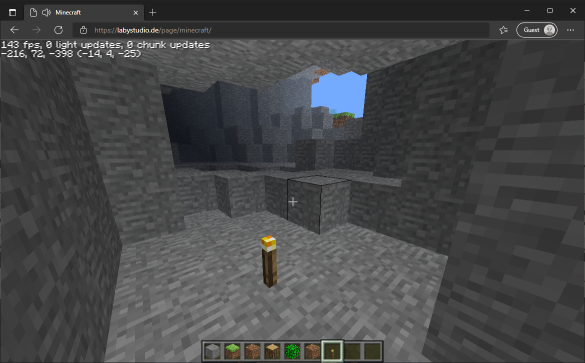
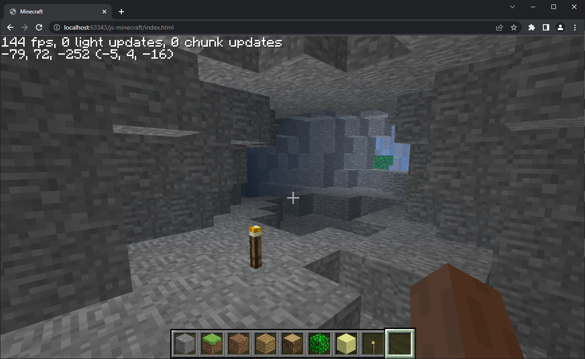
implement first person item in hand rendering
(cherry picked from commit 647b7dc98e1fa80c5ba72a560b03cf447fc65bd4)

diff --git a/src/js/net/minecraft/client/render/WorldRenderer.js b/src/js/net/minecraft/client/render/WorldRenderer.js
@@ -347,11 +347,15 @@ export default class WorldRenderer {
     renderHand(partialTicks) {
         // Hide hand before rendering
         let player = this.minecraft.player;
-        let stack = player.renderer.handGroup;
+        let stack = player.renderer.firstPersonGroup;
         stack.visible = false;
 
+        let firstPerson = this.minecraft.settings.thirdPersonView === 0;
+        let itemId = firstPerson ? this.itemToRender : player.inventory.getItemInSelectedSlot();
+        let hasItem = itemId !== 0;
+
         // Hide in third person
-        if (this.minecraft.settings.thirdPersonView !== 0) {
+        if (!firstPerson) {
             return;
         }
 
@@ -369,14 +373,6 @@ export default class WorldRenderer {
         let pitchArm = player.prevRenderArmPitch + (player.renderArmPitch - player.prevRenderArmPitch) * partialTicks;
         let yawArm = player.prevRenderArmYaw + (player.renderArmYaw - player.prevRenderArmYaw) * partialTicks;
 
-        let factor = 0.8;
-        let zOffset = Math.sin(swingProgress * Math.PI);
-        let yOffset = Math.sin(Math.sqrt(swingProgress) * Math.PI * 2.0);
-        let xOffset = Math.sin(Math.sqrt(swingProgress) * Math.PI);
-
-        let yRotation = Math.sin(Math.sqrt(swingProgress) * Math.PI);
-        let zRotation = Math.sin(swingProgress * swingProgress * Math.PI);
-
         // Bobbing animation
         if (this.minecraft.settings.viewBobbing) {
             let walked = -(player.prevDistanceWalked + (player.distanceWalked - player.prevDistanceWalked) * partialTicks);
@@ -393,31 +389,55 @@ export default class WorldRenderer {
             stack.rotateX(MathHelper.toRadians(pitch));
         }
 
+        let factor = 0.8;
+        let zOffset = Math.sin(swingProgress * Math.PI);
+        let yOffset = Math.sin(Math.sqrt(swingProgress) * Math.PI * 2.0);
+        let xOffset = Math.sin(Math.sqrt(swingProgress) * Math.PI);
+
+        let sqrtRotation = Math.sin(Math.sqrt(swingProgress) * Math.PI);
+        let powRotation = Math.sin(swingProgress * swingProgress * Math.PI);
+
         // Camera rotation movement
         stack.rotateX(MathHelper.toRadians((player.rotationPitch - pitchArm) * 0.1));
         stack.rotateY(MathHelper.toRadians((player.rotationYaw - yawArm) * 0.1));
 
-        // Initial offset on screen
-        this.translate(stack, -xOffset * 0.3, yOffset * 0.4, -zOffset * 0.4);
-        this.translate(stack, 0.8 * factor, -0.75 * factor - (1.0 - equipProgress) * 0.6, -0.9 * factor);
+        if(hasItem) {
+            // Initial offset on screen
+            this.translate(stack, -xOffset * 0.4, yOffset * 0.2, -zOffset * 0.2);
+            this.translate(stack, 0.7 * factor, -0.65 * factor - (1.0 - equipProgress) * 0.6, -0.9 * factor);
 
-        // Rotation of hand
-        stack.rotateY(MathHelper.toRadians(45));
-        stack.rotateY(MathHelper.toRadians(yRotation * 70));
-        stack.rotateZ(MathHelper.toRadians(-zRotation * 20));
+            // Rotation of hand
+            stack.rotateY(MathHelper.toRadians(45));
+            stack.rotateY(MathHelper.toRadians(-powRotation * 20));
+            stack.rotateZ(MathHelper.toRadians(-sqrtRotation * 20));
+            stack.rotateX(MathHelper.toRadians(-sqrtRotation * 80));
 
-        // Post transform
-        this.translate(stack, -1, 3.6, 3.5);
-        stack.rotateZ(MathHelper.toRadians(120));
-        stack.rotateX(MathHelper.toRadians(200));
-        stack.rotateY(MathHelper.toRadians(-135));
-        this.translate(stack, 5.6, 0.0, 0.0);
+            // Scale down
+            stack.scale.x *= 0.4;
+            stack.scale.y *= 0.4;
+            stack.scale.z *= 0.4;
 
-        if (this.itemToRender === 0) {
-            // Render hand
-            player.renderer.renderRightArm(player, partialTicks);
-        } else {
             // Render item
+            player.renderer.updateFirstPerson(player);
+        } else {
+            // Initial offset on screen
+            this.translate(stack, -xOffset * 0.3, yOffset * 0.4, -zOffset * 0.4);
+            this.translate(stack, 0.8 * factor, -0.75 * factor - (1.0 - equipProgress) * 0.6, -0.9 * factor);
+
+            // Rotation of hand
+            stack.rotateY(MathHelper.toRadians(45));
+            stack.rotateY(MathHelper.toRadians(sqrtRotation * 70));
+            stack.rotateZ(MathHelper.toRadians(-powRotation * 20));
+
+            // Post transform
+            this.translate(stack, -1, 3.6, 3.5);
+            stack.rotateZ(MathHelper.toRadians(120));
+            stack.rotateX(MathHelper.toRadians(200));
+            stack.rotateY(MathHelper.toRadians(-135));
+            this.translate(stack, 5.6, 0.0, 0.0);
+
+            // Render hand
+            player.renderer.renderRightHand(player, partialTicks);
         }
     }
 

diff --git a/src/js/net/minecraft/client/render/entity/entity/PlayerRenderer.js b/src/js/net/minecraft/client/render/entity/entity/PlayerRenderer.js
@@ -16,33 +16,52 @@ export default class PlayerRenderer extends EntityRenderer {
 
         // First person right-hand holder
         this.handModel = null;
-        this.handGroup = new THREE.Object3D();
-        this.worldRenderer.overlay.add(this.handGroup);
+        this.firstPersonGroup = new THREE.Object3D();
+        this.worldRenderer.overlay.add(this.firstPersonGroup);
     }
 
     rebuild(entity) {
-        this.tessellator.bindTexture(this.textureCharacter);
-        super.rebuild(entity);
+        let firstPerson = this.worldRenderer.minecraft.settings.thirdPersonView === 0;
+        let itemId = firstPerson ? this.worldRenderer.itemToRender : entity.inventory.getItemInSelectedSlot();
+        let hasItem = itemId !== 0;
 
-        // Render item in hand
-        let group = this.model.rightArm.bone;
-        let id = entity.inventory.getItemInSelectedSlot();
-        if (id !== 0 && this.worldRenderer.minecraft.settings.thirdPersonView !== 0) {
-            let block = Block.getById(id);
-            this.worldRenderer.blockRenderer.renderBlockInHandThirdPerson(group, block, entity.getEntityBrightness());
+        if (firstPerson && hasItem) {
+            super.rebuild(entity);
+
+            // Create new item group and add it to the hand
+            this.firstPersonGroup.clear();
+            let itemGroup = new THREE.Object3D();
+            this.firstPersonGroup.add(itemGroup);
+
+            // Render item in hand in first person
+            let block = Block.getById(itemId);
+            this.worldRenderer.blockRenderer.renderBlockInFirstPerson(itemGroup, block, entity.getEntityBrightness());
+
+            // Copy material and update depth test of the item to render it always in front
+            let mesh = itemGroup.children[0];
+            mesh.material = mesh.material.clone();
+            mesh.material.depthTest = false;
+        } else {
+            this.tessellator.bindTexture(this.textureCharacter);
+            super.rebuild(entity);
+
+            // Render item in hand in third person
+            if (hasItem) {
+                let block = Block.getById(itemId);
+                let group = this.model.rightArm.bone;
+                this.worldRenderer.blockRenderer.renderBlockInHandThirdPerson(group, block, entity.getEntityBrightness());
+            }
+
+            // Create first person right hand and attach it to the holder
+            this.firstPersonGroup.clear();
+            this.handModel = this.model.rightArm.clone();
+            this.firstPersonGroup.add(this.handModel.bone);
+
+            // Copy material and update depth test of the hand to render it always in front
+            let mesh = this.handModel.bone.children[0];
+            mesh.material = mesh.material.clone();
+            mesh.material.depthTest = false;
         }
-
-        // Create first person right hand and attach it to the holder
-        this.handGroup.clear();
-        this.handModel = this.model.rightArm.clone();
-        this.handGroup.add(this.handModel.bone);
-
-        // Copy material and update depth test of the hand
-        let mesh = this.handModel.bone.children[0];
-        mesh.renerOrder = 999;
-        mesh.material = mesh.material.clone();
-        mesh.material.depthTest = false;
-        mesh.material.depthWrite = false;
     }
 
     render(entity, partialTicks) {
@@ -57,9 +76,16 @@ export default class PlayerRenderer extends EntityRenderer {
         super.render(entity, partialTicks);
     }
 
-    renderRightArm(player, partialTicks) {
+    updateFirstPerson(player) {
         // Make sure the model is created
         this.prepareModel(player);
+
+        // Make the group visible
+        this.firstPersonGroup.visible = true;
+    }
+
+    renderRightHand(player, partialTicks) {
+        this.updateFirstPerson(player);
 
         // Set transform of renderer
         this.model.swingProgress = 0;
@@ -68,14 +94,17 @@ export default class PlayerRenderer extends EntityRenderer {
         this.model.setRotationAngles(player, 0, 0, 0, 0, 0, 0);
         this.handModel.copyTransformOf(this.model.rightArm);
 
-        // Render the model
-        this.handGroup.visible = true;
+        // Render hand model
         this.handModel.render();
     }
 
     fillMeta(entity, meta) {
         super.fillMeta(entity, meta);
-        meta.itemInHand = entity.inventory.getItemInSelectedSlot();
+
+        let firstPerson = this.worldRenderer.minecraft.settings.thirdPersonView === 0;
+
+        meta.firstPerson = firstPerson;
+        meta.itemInHand = firstPerson ? this.worldRenderer.itemToRender : entity.inventory.getItemInSelectedSlot();
     }
 
 }

diff --git a/src/js/net/minecraft/client/gui/screens/GuiControls.js b/src/js/net/minecraft/client/gui/screens/GuiControls.js
@@ -16,17 +16,17 @@ export default class GuiControls extends GuiScreen {
         let settings = this.minecraft.settings;
 
         let scope = this;
-        this.buttonList.push(new GuiKeyButton("Crouch", settings.crouching, this.width / 2 - 100, this.height / 2 - 20, 200, 20, function (key) {
+        this.buttonList.push(new GuiKeyButton("Crouch", settings.crouching, this.width / 2 - 100, this.height / 2 - 30, 200, 20, function (key) {
             settings.crouching = key;
             scope.init();
         }));
 
-        this.buttonList.push(new GuiKeyButton("Sprint", settings.sprinting, this.width / 2 - 100, this.height / 2 + 5, 200, 20, function (key) {
+        this.buttonList.push(new GuiKeyButton("Sprint", settings.sprinting, this.width / 2 - 100, this.height / 2 - 5, 200, 20, function (key) {
             settings.sprinting = key;
             scope.init();
         }));
 
-        this.buttonList.push(new GuiKeyButton("Toggle Perspective", settings.togglePerspective, this.width / 2 - 100, this.height / 2 + 30, 200, 20, function (key) {
+        this.buttonList.push(new GuiKeyButton("Toggle Perspective", settings.togglePerspective, this.width / 2 - 100, this.height / 2 + 20, 200, 20, function (key) {
             settings.togglePerspective = key;
             scope.init();
         }));

diff --git a/src/js/net/minecraft/client/render/BlockRenderer.js b/src/js/net/minecraft/client/render/BlockRenderer.js
@@ -287,6 +287,25 @@ export default class BlockRenderer {
         mesh.scale.z = 6;
     }
 
+    renderBlockInFirstPerson(group, block, brightness) {
+        this.tessellator.startDrawing();
+
+        // Render block
+        this.renderBlock(null, block, 0, 0, 0);
+
+        // Change brightness
+        this.tessellator.transformBrightness(brightness);
+
+        // Create mesh
+        let mesh = this.tessellator.draw(group);
+        mesh.geometry.center();
+
+        // Scale
+        mesh.scale.x = 16;
+        mesh.scale.y = 16;
+        mesh.scale.z = 16;
+    }
+
     renderGuiBlock(group, block, x, y, size, brightness) {
         this.tessellator.startDrawing();
 

diff --git a/src/js/net/minecraft/client/Minecraft.js b/src/js/net/minecraft/client/Minecraft.js
@@ -287,6 +287,9 @@ export default class Minecraft {
                             // Place block
                             this.world.setBlockAt(x, y, z, typeId);
 
+                            // Swing player arm
+                            this.player.swingArm();
+
                             // Handle block abilities
                             let block = Block.getById(typeId);
                             block.onBlockPlaced(this.world, x, y, z, hitResult.face);

diff --git a/src/js/net/minecraft/client/render/gui/ItemRenderer.js b/src/js/net/minecraft/client/render/gui/ItemRenderer.js
@@ -11,7 +11,7 @@ export default class ItemRenderer {
         // Create item camera
         this.camera = new THREE.OrthographicCamera(0, 0, 0, 0, 0, 300);
         this.camera.near = 0;
-        this.camera.far = 100;
+        this.camera.far = 15;
         this.camera.rotation.order = 'ZYX';
         this.camera.up = new THREE.Vector3(0, 1, 0);
 

diff --git a/src/js/net/minecraft/client/render/entity/EntityRenderer.js b/src/js/net/minecraft/client/render/entity/EntityRenderer.js
@@ -26,7 +26,6 @@ export default class EntityRenderer {
 
     fillMeta(entity, meta) {
         meta.brightness = entity.getEntityBrightness();
-        meta.itemInHand = entity.inventory.getItemInSelectedSlot();
     }
 
     isRebuildRequired(entity) {

diff --git a/README.md b/README.md
@@ -36,6 +36,8 @@ Click [here](https://labystudio.github.io/js-minecraft/) for a demo!
     - Underwater fog
     - Dynamic FOV
     - Third person
+    - First person hand
+    - First person item in hand
 - GUI
     - Screens
         - Loading Screen
